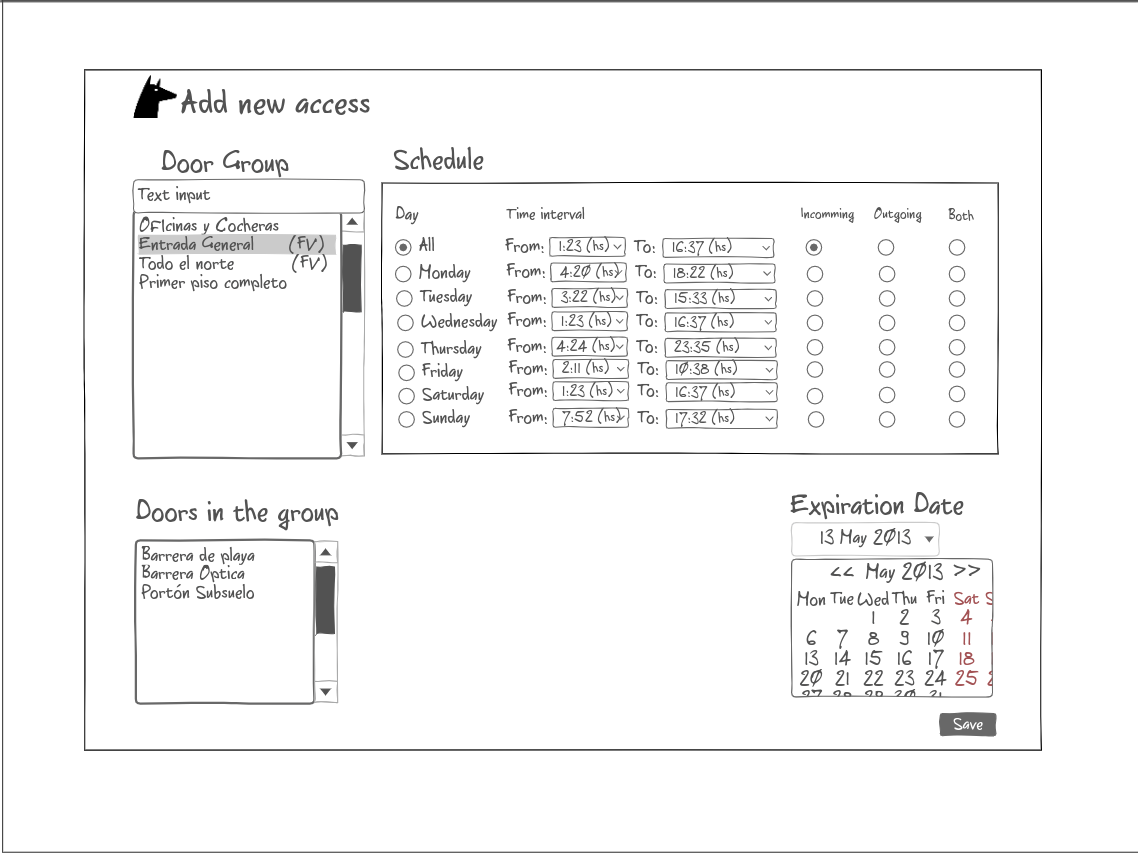
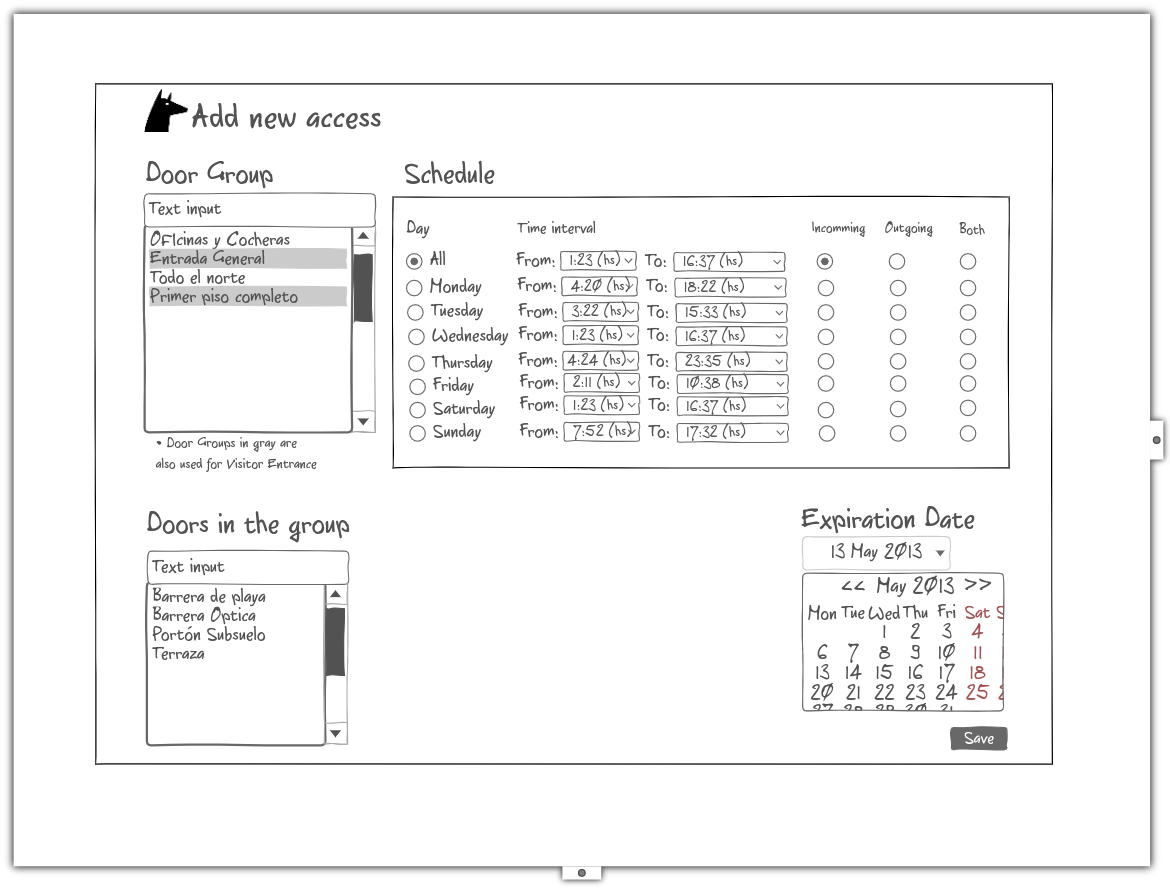
Finishing the generalization of Door Group specification

Changed region(s): [[0.0615, 0.0913, 0.9227, 0.8829], [0.0, 0.0, 1.0, 1.0], [0.123, 0.5785, 0.3076, 0.7611]]

diff --git a/docs/front_end_specs.rst b/docs/front_end_specs.rst
@@ -1102,6 +1102,112 @@ To get all doors from a zone, the following REST method should be sent to the se
 
 
 
+If the user select **Door Group** button, the following screen will appear:
+
+.. image:: images_front_end_specs/add_access_per_doorgroup.png
+
+
+In this window all Door Groups should be shown.
+To get all Door Groups the following REST method should be sent to the server:
+
+**Method:** GET
+
+**URI:**
+
+.. code-block::
+
+  http://172.18.0.3:5000/api/v1.0/doorgroup
+
+ 
+**Response:**
+
+.. code-block::
+
+  HTTP/1.1 200 OK
+  Content-Type: application/json
+  Content-Length: 305
+  Date: Wed, 15 May 2019 14:38:10 GMT
+
+  [
+    {
+      "id":1, 
+      "isForVisit":1, 
+      "name":"Ingreso Visitas Este", 
+      "uri":"http://localhost:5000/api/v1.0/doorgroup/1"
+    }, 
+    {
+      "id":3, 
+      "isForVisit":1, 
+      "name":"Ingreso Visitas Norte", 
+      "uri":"http://localhost:5000/api/v1.0/doorgroup/3"
+    }, 
+    {
+      "id":6, 
+      "isForVisit":0, 
+      "name":"Grupo Total", 
+      "uri":"http://localhost:5000/api/v1.0/doorgroup/6"
+    }
+  ]
+
+
+The Door Groups which are used for visitors entrance has ``"isForVisit": 1``, and should be shown with gray background. 
+
+
+When the user select a Door Group, all the doors of this Door Group should be shown below.
+To get all the doors from a Door Groups the following REST method should be sent to the server:
+
+
+**Method:** GET
+
+**URI:**
+
+.. code-block::
+
+  http://172.18.0.3:5000/api/v1.0/doorgroup/2/door
+
+ 
+**Response:**
+
+.. code-block::
+
+  HTTP/1.1 200 OK
+  Content-Type: application/json
+  Content-Length: 403
+  Date: Wed, 15 May 2019 14:49:35 GMT
+
+  [
+    {
+      "alrmTime":10,
+      "bzzrTime":3,
+      "controllerId":1,
+      "doorNum":2,
+      "id":2,
+      "isVisitExit":0,
+      "name":"Molinete",
+      "resStateId":1,
+      "rlseTime":7,
+      "snsrType":1,
+      "uri":"http://localhost:5000/api/v1.0/door/2",
+      "zoneId":1},
+    {
+      "alrmTime":10,
+      "bzzrTime":3,
+      "controllerId":1,
+      "doorNum":3,
+      "id":3,
+      "isVisitExit":0,
+      "name":
+      "Puerta Ascensor",
+      "resStateId":1,
+      "rlseTime":7,
+      "snsrType":0,
+      "uri":"http://localhost:5000/api/v1.0/door/3",
+      "zoneId":3
+    }
+  ]
+
+
+
 For the second screen **(Door -> Person)**, before pressing **"add"** button an specific door or an entire zone should be selected and the following window will appear:
 
 .. image:: images_front_end_specs/add_access_pas_per.png
@@ -2135,12 +2241,16 @@ To get a list of visitors, the following POST method should be sent to the serve
 
 .. code-block::
 
-  http://172.18.0.5:5000/api/v1.0/visitor?visitDoorGroupId=1&visitedOrgId=2
+  http://172.18.0.5:5000/api/v1.0/visitor?doorGroupId=1&visitedOrgId=2
   
 
-``visitDoorGroupId`` variable should have the ID of the visit door group where the visitor was authorized to enter the building.
+``doorGroupId`` variable should have the ID of the visit door group where the visitor was authorized to enter the building.
 
 ``visitedOrgId`` variable should have the ID of the organization the visitor was registered to visit.
+
+``cardNumber`` variable should have the card number that the visit is using.
+
+The ``cardNumber`` variable could be combined with the other variables but tipically will be used alone since only one visitor can have one card.
 
 An the tipical response would be:
 
@@ -2176,7 +2286,7 @@ An the tipical response would be:
   ]
 
 If one of the above variables is omitted, all the resources that this variable could filter, would be retrieved.
-For example, if ``visitedOrgId`` variable is omitted, all the visitors who were registered to enter trough the visit door group with ID = 1 who are visiting different organizations, will be retrieved.
+For example, if ``visitedOrgId`` variable is omitted, all the visitors who were registered to enter trough the Door Group with ID = 1 who are visiting different organizations, will be retrieved.
 
 **Method:** GET
 
@@ -2184,7 +2294,7 @@ For example, if ``visitedOrgId`` variable is omitted, all the visitors who were 
 
 .. code-block::
 
-  http://172.18.0.5:5000/api/v1.0/visitor?visitDoorGroupId=1  
+  http://172.18.0.5:5000/api/v1.0/visitor?doorGroupId=1  
 
 **Response:**
 
@@ -2245,7 +2355,7 @@ For example, if ``visitedOrgId`` variable is omitted, all the visitors who were 
     }
   ]
 
-In the same way, if ``visitDoorGroupId`` variable is omitted, all the visitors who were registered to visit organization with ID = 2 who could have entered trough different visit door groups, will be retrieved.
+In the same way, if ``doorGroupId`` variable is omitted, all the visitors who were registered to visit organization with ID = 2 who could have entered trough different Door Goups, will be retrieved.
 
 
 **Method:** GET
@@ -2289,7 +2399,7 @@ In the same way, if ``visitDoorGroupId`` variable is omitted, all the visitors w
   ]
 
 
-If both variables are omitted, all the visitors in the building will be retrieved
+If all the variables are omitted, all the visitors in the building will be retrieved
 
 **Method:** GET
 
